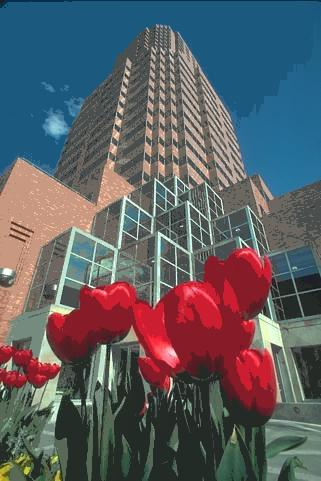
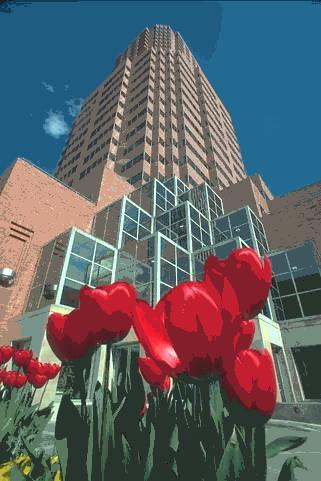
Corrected the Gaussian Kernel Implementation

diff --git a/segment.py b/segment.py
@@ -24,10 +24,11 @@ else:
 if gaussian == 1:
 	kertype = "gaussian"
 
-m = 1
+m = 0.5
 S = 5
 threshold = 1.0
 
+print "Loading the Image ..."
 img = Image.open("img/input.jpg")
 img.load()
 img = np.array(img)
@@ -38,9 +39,12 @@ rows, cols, dim = img.shape
 
 seg_meandist = np.array([[1000.0 for r in xrange(cols)] for c in xrange(rows)])
 meandist = np.array([[1000.0 for r in xrange(cols)] for c in xrange(rows)])
+labels = np.array([[-1 for r in xrange(cols)] for c in xrange(rows)])
 
+print "Running Mean Shift Algorithm ..."
 # Get the kernel for a point
 start = t.time()
+
 means = []
 for r in xrange(0,rows,Bin):
 	for c in xrange(0,cols,Bin):
@@ -68,7 +72,7 @@ for r in xrange(0,rows,Bin):
 			if gaussian == 0:
 				mean = np.mean(kernel,axis=0,dtype=np.int64)
 			elif gaussian == 1:
-				mean = gaussian_mean(kernel, float(rows), float(cols))
+				mean = gaussian_mean(kernel, seed, bandwidth)
 
 			# Get the shift
 			dc = np.linalg.norm(seed[2:] - mean[2:])
@@ -87,15 +91,20 @@ for r in xrange(0,rows,Bin):
 			if D < seg_meandist[i][j]:
 				seg_meandist[i][j] = D
 				seg_img[i][j] = mean[2:]
+				labels[i][j] = len(means) - 1
 
 end = t.time()
 
+
+
+print "Saving the segmented image ..."
 img = Image.fromarray(seg_img)
 img.save("img/" + kertype + "_output_" + str(bandwidth) + "_" + str(Bin) + ".jpg")
 
 print "Time taken for segmentation: " + str((end - start)/60) + " min"
 print "Bandwidth: " + str(bandwidth)
 print "Seeds Bin Size: " + str(Bin)
-print "Number of Seeds: " + str(len(means)) 
+print "Number of Seeds: " + str(len(means))
+print "Number of means after convergence: "
 print "Relative weight given to spatial distance (m): " + str(m)
 print "Spatial Distance Normalization Parameter (S): " + str(S)

diff --git a/gaussian_mean.py b/gaussian_mean.py
@@ -7,24 +7,7 @@ import math
 
 ###################################################################################################
 
-def gaussian_mean(kernel,seed):
-	# Initializing the mean
-	num = np.matrix([0.0,0.0,0.0,0.0,0.0])
-	den = 1.0
-
-	# The positive definite matrix
-	A = np.matrix([[1.0,0.0,0.0,0.0,0.0],[0.0,1.0,0.0,0.0,0.0],[0.0,0.0,1.0,0.0,0.0],[0.0,0.0,0.0,1.0,0.0],[0.0,0.0,0.0,0.0,1.0]])
-
-	# Finding the mean
-	for point in kernel:
-		x = np.matrix([point[0]/rows,point[1]/cols,point[2]/255.0,point[3]/255.0,point[4]/255.0])
-		g = (-1.0)*x*A*(x.transpose())
-		fx = math.exp(g)
-		num = num + x*fx
-		den = den + fx
-
-	mean = num/den
-	mean = np.array(mean).flatten()
-	mean = np.array([mean[0]*rows,mean[1]*cols,mean[2]*255.0,mean[3]*255.0,mean[4]*255.0], dtype=np.int64)
-
+def gaussian_mean(kernel,seed,bandwidth):
+	weights = np.exp(-1*np.linalg.norm((kernel - seed)/bandwidth,axis=1))
+	mean = np.array(np.sum(weights[:,None]*kernel,axis=0)/np.sum(weights), dtype=np.int64)
 	return mean
